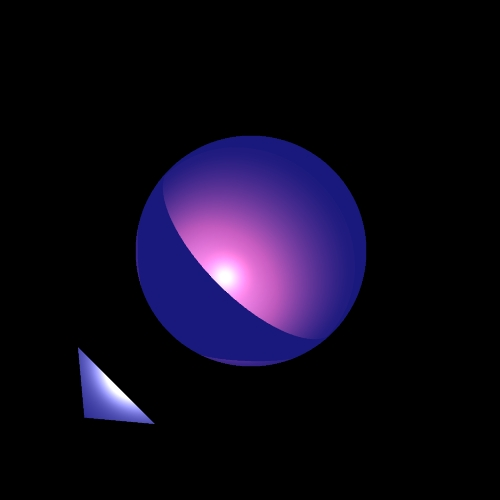
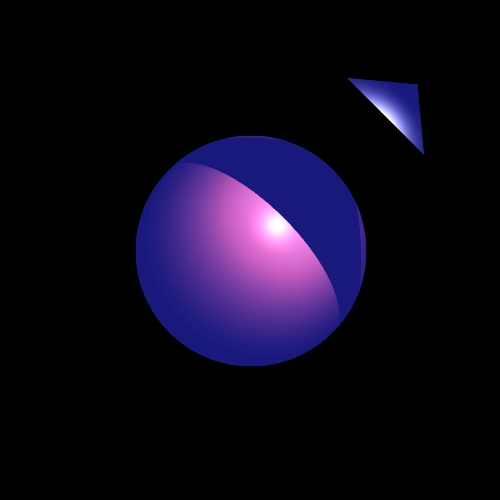
2

diff --git a/src/unittests/RenderTest.java b/src/unittests/RenderTest.java
@@ -77,8 +77,8 @@ public class RenderTest {
 		Scene scene = new Scene("pointLightTest");
 
 		Triangle triangle = new Triangle(new Color(40, 29, 28),new Point3D(  -3500,  3500, -2000),
-				new Point3D( 3500, -3500, -1000),
-				new Point3D(  3500, 3500, -2000));
+				new Point3D(  3500, 3500, -2000),new Point3D( 3500, -3500, -1000)
+				);
 
 		Triangle triangle2 = new Triangle(new Color(40, 29, 28),new Point3D(  -3500,  3500, -2000),
 				new Point3D( 3500,  -3500, -1000),
@@ -143,7 +143,7 @@ public class RenderTest {
 		scene.setCameraAndDistance(new Camera(), 200);
 
 		Sphere sphere = new Sphere(500, new Point3D(0.0, 0.0, -1000));
-		sphere.setMaterial(new Material(1, 1, 1, 1, 20));
+		sphere.setMaterial(new Material(1, 1, 0, 0, 20));
 		sphere.setEmmission(new Color(0, 0, 100));
 		scene.addGeometry(sphere);
 
@@ -232,72 +232,7 @@ public class RenderTest {
 		render.writeToImage();
 	}
 	@Test
-	public void spotLightTest3() {
-		Scene scene = new Scene("spotLightTest3");
-		scene.setBackground(new Color(0, 0, 0));
-		scene.setAmbientLight(new AmbientLight(new Color(255, 255, 255), 0.01));
-		scene.setCameraAndDistance(new Camera(), 200);
-
-		Sphere sphere = new Sphere(500, new Point3D(0.0, 0.0, -1000));
-		sphere.setMaterial(new Material(1, 1, 0, 0, 20));
-		sphere.setEmmission(new Color(0, 0, 100));
-		scene.addGeometry(sphere);
-
-		Triangle triangle = new Triangle(
-				new Point3D(-150, -200, -260),
-				new Point3D(-200, -150, -260),
-				new Point3D(-200, -200, -270));
-
-		triangle.setEmmission(new Color(0, 0, 100));
-		triangle.setMaterial(new Material(1, 1, 0, 0, 4));
-		scene.addGeometry(triangle);
-
-		scene.addLight(new spotLight(
-				new Color(255, 100, 100), new Point3D(-200, -200, -150),
-				new vector(2, 2, -3),0.1, 0.00001, 0.000005));
-
-
-		ImageWriter imageWriter = new ImageWriter("Spot test with shadow6", 500, 500, 500, 500);
-
-		Render render = new Render(imageWriter, scene);
-		render.renderImage();
-		render.writeToImage();
-	}
-	@Test
 	public void SuperSamplingTest1() {
-		Scene scene = new Scene("spotLightTest3");
-		scene.setBackground(new Color(0, 0, 0));
-		scene.setAmbientLight(new AmbientLight(new Color(255, 255, 255), 0.01));
-		scene.setCameraAndDistance(new Camera(), 200);
-
-		Sphere sphere = new Sphere(500, new Point3D(0.0, 0.0, -1000));
-		sphere.setMaterial(new Material(1, 1, 0, 0, 20));
-		sphere.setEmmission(new Color(0, 0, 100));
-		scene.addGeometry(sphere);
-
-		Triangle triangle = new Triangle(
-				new Point3D(-150, -200, -260),
-				new Point3D(-200, -150, -260),
-				new Point3D(-200, -200, -270));
-
-		triangle.setEmmission(new Color(0, 0, 100));
-		triangle.setMaterial(new Material(1, 1, 0, 0, 4));
-		scene.addGeometry(triangle);
-
-		scene.addLight(new spotLight(
-				new Color(255, 100, 100), new Point3D(-200, -200, -150),
-				new vector(2, 2, -3),0.1, 0.00001, 0.000005));
-
-
-		ImageWriter imageWriter = new ImageWriter("Spot test with shadowSS", 500, 500, 500, 500);
-
-		Render render = new Render(imageWriter, scene);
-		render.renderImageWithSupersampling();
-		//render.printGrid(50);
-		render.writeToImage();
-	}
-	@Test
-	public void SuperSamplingTest2() {
 		Scene scene = new Scene("occludedTest");
 		scene.setBackground(new Color(0, 0, 0));
 		scene.setAmbientLight(new AmbientLight(new Color(255, 255, 255), 0.1));
@@ -329,7 +264,7 @@ public class RenderTest {
 		render.writeToImage();
 	}
 	@Test
-	public void SuperSamplingTest3() {
+	public void SuperSamplingTest2() {
 		Scene scene = new Scene("occludedTest");
 		scene.setBackground(new Color(0, 0, 0));
 		scene.setAmbientLight(new AmbientLight(new Color(255, 255, 255), 0.1));

diff --git a/src/unittests/Project.java b/src/unittests/Project.java
@@ -32,8 +32,8 @@ public class Project {
         Sphere sphere3=new Sphere(new Color(0, 50, 50),200, new Point3D(-300,-200,-900));
         Sphere sphere4=new Sphere(new Color(114,61,141),150,new Point3D(400,0,-800));
 
-        Sphere sphere5=new Sphere(new Color(0,0,100),50,new Point3D(-800,-600,-400));
-        Sphere sphere6=new Sphere(new Color(100,0,0),50,new Point3D(800,-600,-400));
+        Sphere sphere5=new Sphere(new Color(0,0,100),100,new Point3D(-500,-600,-400));
+        Sphere sphere6=new Sphere(new Color(100,0,0),100,new Point3D(500,-600,-400));
 
         triangle1.setMaterial(new Material(1,1,0,1.0,5));
         triangle2.setMaterial(new Material(1,1,0,1.0,5));
@@ -62,12 +62,13 @@ public class Project {
         scene.addGeometry(sphere6);
         //scene.addLight(new pointLight(new Color(50, 50,50), new Point3D(-1000,0,-400)
         //       , 0.01, 0.00001, 0.0000005));
-        pointLight light=new pointLight(new Color(250, 100,100), new Point3D(-800,-600,-400) , 0.01, 0.001, 0.00005);
-        pointLight light1=new pointLight(new Color(250, 100,100), new Point3D(800,-600,-400) , 0.01, 0.001, 0.00005);
+        pointLight light=new pointLight(new Color(250, 100,100), new Point3D(-500,-600,-400) , 0.01, 0.001, 0.00005);
+       pointLight light1=new pointLight(new Color(250, 100,100), new Point3D(500,-600,-400) , 0.01, 0.001, 0.00005);
         //scene.addLight(light);
         scene.addLight(new SphereLight(light,sphere5));
         scene.addLight(new SphereLight(light1,sphere6));
-        scene.addLight(new pointLight(new Color(250,100,100),new Point3D(0,-1000,-600), 0.01, 0.001, 0.00005));
+        scene.addLight(new pointLight(new Color(250,100,100),new Point3D(0,-400,-200), 0.01, 0.001, 0.00005));
+        scene.addLight(new spotLight(new Color(250,255,255),new Point3D(0,0,0),new vector(new Point3D(500,-600,-400)), 0.01, 0.001, 0.0005 ));
         scene.setAmbientLight(new AmbientLight(new Color(java.awt.Color.BLACK)));
         ImageWriter imageWriter = new ImageWriter( "Project", 500, 500, 500, 500);
 

diff --git a/src/renderer/Render.java b/src/renderer/Render.java
@@ -145,6 +145,30 @@ public class Render {
         if(geometry instanceof FlatGeometry) {//flat geometry can't interection wuth itself.
             intersectionPoints.remove(geometry);
         }
+        if(light instanceof SphereLight) {
+            intersectionPoints.remove(((SphereLight) light).getSphere());
+
+           if(!intersectionPoints.isEmpty()){
+                List<Geometry> temp= new ArrayList<Geometry>(intersectionPoints.keySet());
+                for (Geometry key:temp) {
+                    if(!intersectionPoints.get(key).isEmpty())
+                    {
+                        List<Point3D> temp1=intersectionPoints.get(key);
+                        for (int i=0;i<temp1.size();i++)
+                        {
+                            Point3D point1=temp1.get(i);
+                            if(point1.distance(lightRay.getP00())>((SphereLight) light).getLight().getPosition().distance(lightRay.getP00()))
+                            {
+                                temp1.remove(i);
+                            }
+                        }
+                        intersectionPoints.put(key,temp1);
+
+                    }
+
+                }
+            }
+        }
         for (Map.Entry<Geometry,List<Point3D>> entry: intersectionPoints.entrySet()){
             if(entry.getKey().getMaterial().getKt()==0)//if there is geometry that doesn't clear so this point.
                 return true;

diff --git a/src/elements/SphereLight.java b/src/elements/SphereLight.java
@@ -24,9 +24,9 @@ public class SphereLight extends Light implements LightSource {
 
     @Override
     public Color getInternsity(Point3D point) {
-        if (point.distance(sphere.getCenter()) <= sphere.get_radius()) {
-            return light.getInternsity(point);
-        }
+       // if (point.distance(sphere.getCenter()) <= sphere.get_radius()) {
+       //     return light.getInternsity(point);
+       // }
         return light.getInternsity(point).add(sphere.getEmmission());
     }
 
